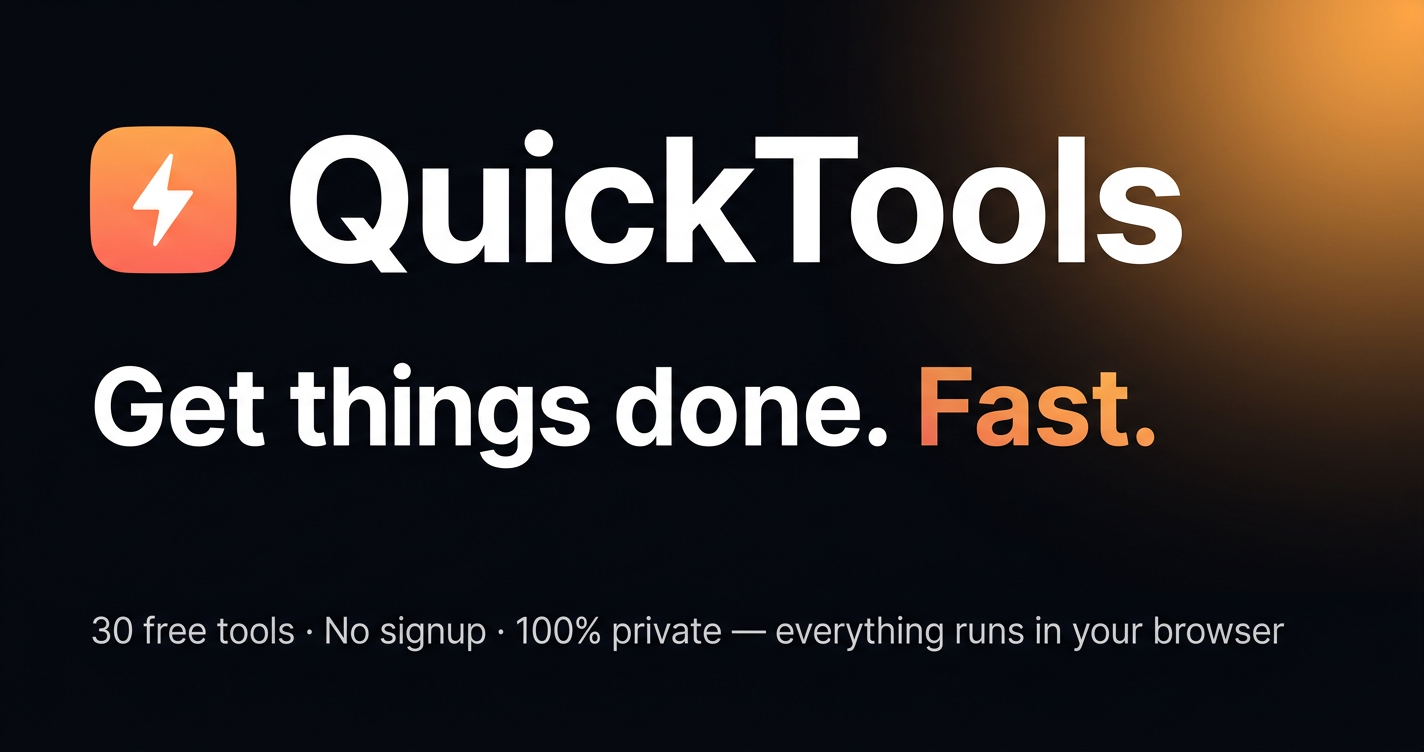
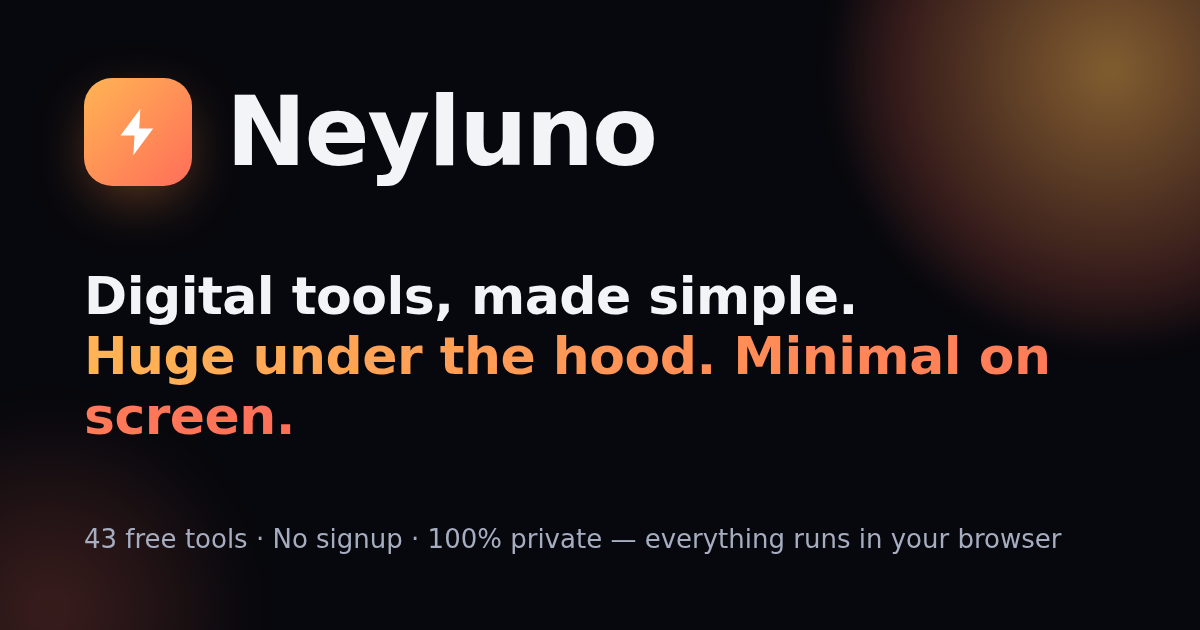
REBRANDING — QuickTools becomes Neyluno (global)
- Brand: Neyluno everywhere (header, footer, SEO, OG, JSON-LD, manifest, PWA, guides, legal, tools, tests, docs, motion scenes).
- Tagline: 'Digital tools, made simple.' + new OG cover 1200x630.
- Contact email: Noah.mailpro@yahoo.com (site.js, legal, docs).
- Canonical domain: https://neyluno.onrender.com (new Render static service).
- Workflow exports: app id 'neyluno'; legacy pre-rebrand imports still accepted (encoded marker, zero literal).
- Download filenames neyluno-*; package/repo renamed; GitHub repo renamed Neyluno.
- Gates: 139 unit + 61 e2e green; final grep quicktools/natwixpaye-email = 0.

diff --git a/motion/scenes/promo.html b/motion/scenes/promo.html
@@ -3,9 +3,9 @@
 <head>
 <meta charset="utf-8" />
 <meta name="viewport" content="width=device-width, initial-scale=1" />
-<title>QuickTools — Promo Scene</title>
+<title>Neyluno — Promo Scene</title>
 <style>
-  /* ---------- Brand tokens (from QuickTools design system) ---------- */
+  /* ---------- Brand tokens (from Neyluno design system) ---------- */
   :root {
     --bg: #07080d;
     --panel: rgba(255,255,255,.035);
@@ -178,7 +178,7 @@
   <div class="scene" id="sceneB">
     <div id="converge"></div>
     <div class="card hub" id="hub">
-      <div class="title"><span class="mark"></span><span>QuickTools</span></div>
+      <div class="title"><span class="mark"></span><span>Neyluno</span></div>
       <div class="steps" id="steps">
         <div class="step" id="st1"><div class="dot">↑</div><span data-i18n="sUpload"></span></div>
         <div class="link" id="lk1"></div>
@@ -220,12 +220,12 @@
   <div class="scene" id="sceneE">
     <div class="logo-row" id="logoRow">
       <span class="logo-mark" id="logoMark"></span>
-      <span class="logo-word">QuickTools</span>
+      <span class="logo-word">Neyluno</span>
     </div>
     <div class="tag-43" data-i18n="tag43"></div>
     <div class="slogan" id="slogan"></div>
     <div class="cta" id="cta" data-i18n="cta"></div>
-    <div class="url">quicktools · 100% local · free</div>
+    <div class="url">neyluno · 100% local · free</div>
   </div>
 
   <div id="vignette"></div>
@@ -246,12 +246,12 @@ const TEXT = {
     flowQuery: 'I want to extract the text from this PDF',
     flowUnderstood: 'Flow understood →',
     flowTool: 'PDF → Text',
-    capC: '<strong>You don’t need to know which tool you need.</strong><br>Just tell QuickTools what you want to do.',
+    capC: '<strong>You don’t need to know which tool you need.</strong><br>Just tell Neyluno what you want to do.',
     toolsLabel: 'tools',
     capD: '<strong>Everything you need.</strong> One place.',
     tag43: '43 tools. One simple place.',
     slogan: 'Huge under the hood.<br><span class="gold">Minimal on screen.</span>',
-    cta: 'Try QuickTools',
+    cta: 'Try Neyluno',
     chips: ['PDF', 'IMAGE', 'TEXT', 'CALC', 'CONVERT', 'UTILITIES', 'STUDENT'],
   },
   fr: {
@@ -266,7 +266,7 @@ const TEXT = {
     capD: '<strong>Tout ce qu’il vous faut.</strong> Au même endroit.',
     tag43: '43 outils. Une seule interface.',
     slogan: 'Énorme en profondeur.<br><span class="gold">Minimal à l’écran.</span>',
-    cta: 'Essayer QuickTools',
+    cta: 'Essayer Neyluno',
     chips: ['PDF', 'IMAGE', 'TEXTE', 'CALCUL', 'CONVERSION', 'UTILITAIRES', 'ÉTUDIANT'],
   },
 }[LANG];

diff --git a/src/lib/workflow.js b/src/lib/workflow.js
@@ -141,7 +141,7 @@ export const WORKFLOW_EXPORT_VERSION = 1;
 export function exportWorkflowsJSON(workflows) {
   return JSON.stringify(
     {
-      app: 'quicktools',
+      app: 'neyluno',
       kind: 'workflows',
       version: WORKFLOW_EXPORT_VERSION,
       exportedAt: new Date().toISOString(),
@@ -164,10 +164,19 @@ export function parseWorkflowsJSON(text) {
   try {
     data = JSON.parse(text);
   } catch {
-    return { ok: false, error: 'This is not valid JSON. Action: export again from QuickTools, or fix the file.' };
+    return { ok: false, error: 'This is not valid JSON. Action: export again from Neyluno, or fix the file.' };
   }
-  if (!data || typeof data !== 'object' || data.app !== 'quicktools' || data.kind !== 'workflows') {
-    return { ok: false, error: 'This JSON was not exported by QuickTools. Action: use a file exported from the Workflows page.' };
+  // Legacy migration: files exported before the rebrand carry the previous
+  // app identifier. It is stored encoded so the old brand string never
+  // appears anywhere in the codebase, yet old exports keep importing.
+  const LEGACY_APP = typeof atob === 'function' ? atob('cXVpY2t0b29scw==') : null;
+  if (
+    !data ||
+    typeof data !== 'object' ||
+    (data.app !== 'neyluno' && data.app !== LEGACY_APP) ||
+    data.kind !== 'workflows'
+  ) {
+    return { ok: false, error: 'This JSON was not exported by Neyluno. Action: use a file exported from the Workflows page.' };
   }
   if (!Array.isArray(data.workflows) || data.workflows.length === 0) {
     return { ok: false, error: 'The file contains no workflows. Action: export at least one saved workflow.' };
@@ -175,12 +184,12 @@ export function parseWorkflowsJSON(text) {
   const out = [];
   for (const wf of data.workflows) {
     if (!wf || typeof wf.name !== 'string' || !wf.name.trim() || !Array.isArray(wf.steps) || wf.steps.length === 0) {
-      return { ok: false, error: 'A workflow in this file is missing a name or its steps. Action: re-export from QuickTools.' };
+      return { ok: false, error: 'A workflow in this file is missing a name or its steps. Action: re-export from Neyluno.' };
     }
     const steps = [];
     for (const s of wf.steps) {
       if (!s || !STEP_TYPES[s.type]) {
-        return { ok: false, error: `Unknown step type “${s?.type ?? ''}”. Action: this file may come from a newer QuickTools version.` };
+        return { ok: false, error: `Unknown step type “${s?.type ?? ''}”. Action: this file may come from a newer Neyluno version.` };
       }
       const step = { type: s.type };
       if (s.type === 'resize') {

diff --git a/src/data/tools.js b/src/data/tools.js
@@ -1,5 +1,5 @@
 /**
- * TOOLS REGISTRY — QuickTools V2
+ * TOOLS REGISTRY — Neyluno V2
  * Add a tool: entry here + UI component in src/tools/ui/ + register in src/pages/tools/[slug].astro.
  * Navigation, search, categories, sitemap and internal links follow automatically.
  * `intents` are task phrases matched by the intent-based search engine.
@@ -629,7 +629,7 @@ export const tools = [
     group: 'Images',
     shortDesc: 'Instant facts about any image: dimensions, format, weight, transparency — plus what to do next.',
     description:
-      'Drop an image and get the full picture: exact dimensions, megapixels, aspect ratio, file weight, format and whether it uses transparency. The analyzer then suggests the right QuickTools action (compress, convert, resize).',
+      'Drop an image and get the full picture: exact dimensions, megapixels, aspect ratio, file weight, format and whether it uses transparency. The analyzer then suggests the right Neyluno action (compress, convert, resize).',
     keywords: ['analyze', 'image', 'metadata', 'dimensions', 'size', 'check', 'properties', 'inspect'],
     intents: [
       'analyze image', 'image info', 'image properties', 'check image size', 'image dimensions', 'is image transparent',
@@ -641,7 +641,7 @@ export const tools = [
       { q: 'What are megapixels for?', a: 'Megapixels (width × height ÷ 1,000,000) indicate the true detail level of a photo — more useful than file size for judging quality.' },
       { q: 'Which formats can I analyze?', a: 'Any format your browser can open: JPG, PNG, WebP, GIF, BMP, AVIF and more.' },
     ],
-    seo: `<p>Before optimizing or uploading an image, know exactly what you have. This <strong>image analyzer</strong> reports <strong>dimensions, megapixels, aspect ratio, file weight and format</strong>, and detects transparency by sampling pixels.</p><p>It then points you to the right next step — compress a heavy file, convert a format, or resize oversized dimensions — all without leaving QuickTools.</p>`,
+    seo: `<p>Before optimizing or uploading an image, know exactly what you have. This <strong>image analyzer</strong> reports <strong>dimensions, megapixels, aspect ratio, file weight and format</strong>, and detects transparency by sampling pixels.</p><p>It then points you to the right next step — compress a heavy file, convert a format, or resize oversized dimensions — all without leaving Neyluno.</p>`,
   },
   {
     slug: 'text-cleaner',

diff --git a/motion/brand/og.html b/motion/brand/og.html
@@ -1,0 +1,55 @@
+<!doctype html>
+<html>
+<head>
+<meta charset="utf-8" />
+<style>
+  * { margin: 0; box-sizing: border-box; }
+  html, body { width: 1200px; height: 630px; overflow: hidden; }
+  body {
+    background: #07080d;
+    font-family: 'Space Grotesk', 'Inter', system-ui, sans-serif;
+    color: #f2f4f8;
+    position: relative;
+  }
+  .glow {
+    position: absolute; width: 560px; height: 560px; border-radius: 50%;
+    right: -190px; top: -210px;
+    background: radial-gradient(circle, rgba(255,180,84,.5), rgba(255,110,89,.18) 55%, transparent 72%);
+    filter: blur(10px);
+  }
+  .glow2 {
+    position: absolute; width: 420px; height: 420px; border-radius: 50%;
+    left: -160px; bottom: -190px;
+    background: radial-gradient(circle, rgba(255,110,89,.22), transparent 70%);
+    filter: blur(20px);
+  }
+  .wrap { position: absolute; inset: 0; padding: 76px 84px; display: flex; flex-direction: column; justify-content: space-between; }
+  .brand { display: flex; align-items: center; gap: 34px; }
+  .mark {
+    width: 108px; height: 108px; border-radius: 28px;
+    background: linear-gradient(135deg, #ffb454, #ff6e59);
+    display: grid; place-items: center;
+    box-shadow: 0 18px 60px -12px rgba(255,140,70,.45);
+  }
+  .mark svg { width: 56px; height: 56px; }
+  .word { font-size: 96px; font-weight: 800; letter-spacing: -0.02em; }
+  .tag { font-size: 52px; font-weight: 700; letter-spacing: -0.01em; line-height: 1.16; }
+  .tag .gold { background: linear-gradient(100deg, #ffb454, #ff6e59); -webkit-background-clip: text; background-clip: text; -webkit-text-fill-color: transparent; }
+  .foot { font-size: 26px; color: #a6adc0; font-weight: 500; }
+</style>
+</head>
+<body>
+  <div class="glow"></div>
+  <div class="glow2"></div>
+  <div class="wrap">
+    <div class="brand">
+      <span class="mark">
+        <svg viewBox="0 0 24 24" fill="none"><path d="M13 2 4.5 13.5h6L10 22l8.5-11.5h-6L13 2z" fill="#fff"/></svg>
+      </span>
+      <span class="word">Neyluno</span>
+    </div>
+    <div class="tag">Digital tools, made simple.<br /><span class="gold">Huge under the hood. Minimal on screen.</span></div>
+    <div class="foot">43 free tools · No signup · 100% private — everything runs in your browser</div>
+  </div>
+</body>
+</html>

diff --git a/src/data/guides.js b/src/data/guides.js
@@ -279,7 +279,7 @@ export const guides = [
     faq: [
       { q: 'Why can I not select the text in my PDF?', a: 'The document is probably a scan: every “page” is a photograph of the original. There is no hidden text layer to read — only pixels. Tools that extract text will correctly tell you so.' },
       { q: 'Does extracting text keep the formatting?', a: 'Text layers store characters and positions, not paragraphs. You get clean words and line breaks; lists, tables and columns may need light re-tidying after extraction.' },
-      { q: 'Is OCR the solution for scans?', a: 'OCR turns pixels into text. Quality depends heavily on scan resolution and language; for anything important, compare the output against the original. QuickTools does not ship OCR in V4 — this is a deliberate V5 scope decision.' },
+      { q: 'Is OCR the solution for scans?', a: 'OCR turns pixels into text. Quality depends heavily on scan resolution and language; for anything important, compare the output against the original. Neyluno does not ship OCR in V4 — this is a deliberate V5 scope decision.' },
       { q: 'Is my document uploaded anywhere?', a: 'No. Extraction runs locally in your browser; the file never leaves your device.' },
     ],
     html: `
@@ -298,7 +298,7 @@ export const guides = [
 <ul>
   <li><strong>Re-export the original</strong> if you have it — always better than extracting from a scan.</li>
   <li><strong>Use the PDF → Images tool</strong> to get clean page pictures, then retype the few lines you actually need.</li>
-  <li><strong>OCR</strong> (optical character recognition) converts pixels to text but is a separate, heavier process; QuickTools leaves it for V5 and prefers telling you “no text found” over guessing characters.</li>
+  <li><strong>OCR</strong> (optical character recognition) converts pixels to text but is a separate, heavier process; Neyluno leaves it for V5 and prefers telling you “no text found” over guessing characters.</li>
 </ul>
 
 <h2>Quick checklist</h2>

diff --git a/tests/workflow-v4.test.js b/tests/workflow-v4.test.js
@@ -51,14 +51,24 @@ test('import: wrong app/kind rejected', () => {
   assert.equal(parseWorkflowsJSON(JSON.stringify({ app: 'other', kind: 'workflows', workflows: [] })).ok, false);
 });
 
+test('import: pre-rebrand export (legacy app id) still accepted', () => {
+  const legacy = {
+    app: atob('cXVpY2t0b29scw=='),
+    kind: 'workflows',
+    version: 1,
+    workflows: [{ name: 'old export', steps: [{ type: 'resize', maxSide: 1920 }] }],
+  };
+  assert.equal(parseWorkflowsJSON(JSON.stringify(legacy)).ok, true);
+});
+
 test('import: missing steps / empty name rejected', () => {
-  const bad = { app: 'quicktools', kind: 'workflows', version: 1, workflows: [{ name: 'x', steps: [] }] };
+  const bad = { app: 'neyluno', kind: 'workflows', version: 1, workflows: [{ name: 'x', steps: [] }] };
   assert.equal(parseWorkflowsJSON(JSON.stringify(bad)).ok, false);
 });
 
 test('import: unknown step type rejected', () => {
   const bad = {
-    app: 'quicktools',
+    app: 'neyluno',
     kind: 'workflows',
     version: 1,
     workflows: [{ name: 'x', steps: [{ type: 'explode' }] }],
@@ -68,7 +78,7 @@ test('import: unknown step type rejected', () => {
 
 test('import: out-of-range numeric rejected', () => {
   const bad = {
-    app: 'quicktools',
+    app: 'neyluno',
     kind: 'workflows',
     version: 1,
     workflows: [{ name: 'x', steps: [{ type: 'resize', maxSide: 999999 }] }],

diff --git a/src/data/site.js b/src/data/site.js
@@ -1,15 +1,15 @@
 /**
- * CENTRAL SITE CONFIGURATION — QuickTools V2 (global, English-first)
+ * CENTRAL SITE CONFIGURATION — Neyluno V2 (global, English-first)
  * Name, tagline and global settings are changed here only.
  */
 export const site = {
-  name: 'QuickTools',
+  name: 'Neyluno',
   tagline: 'The fastest place to get small digital tasks done.',
   shortDescription:
     'Free online tools for images, PDFs, text and files. No sign-up, no uploads — everything runs privately in your browser.',
   locale: 'en',
   // Public contact address (used by Privacy, Settings feedback — no form backend by design).
-  contactEmail: 'natwixpaye@gmail.com',
+  contactEmail: 'Noah.mailpro@yahoo.com',
   // Default theme when the visitor has no stored preference and no OS preference:
   defaultTheme: 'dark',
 

diff --git a/src/lib/fileui.js b/src/lib/fileui.js
@@ -413,7 +413,7 @@ export function mountFileTool(root, config = {}) {
         entries[name] = new Uint8Array(await item.result.blob.arrayBuffer());
       }
       const zipped = zipSync(entries);
-      downloadBlob(new Blob([zipped], { type: 'application/zip' }), 'quicktools-export.zip');
+      downloadBlob(new Blob([zipped], { type: 'application/zip' }), 'neyluno-export.zip');
       toast(`${done.length} ${t('file.zipDone')}`, 'success');
     } catch {
       toast(t('file.zipFail'), 'error');

diff --git a/src/lib/flow.js b/src/lib/flow.js
@@ -1,5 +1,5 @@
 /**
- * QuickTools Flow — rule-based intent → plan engine (no AI, no server).
+ * Neyluno Flow — rule-based intent → plan engine (no AI, no server).
  * Understands short natural sentences in English and French, detects file types,
  * problems and quantities, and proposes either a tool or a workflow plan.
  * Pure functions, fully testable. Architecture ready for a future AI layer.

diff --git a/src/styles/global.css b/src/styles/global.css
@@ -1,5 +1,5 @@
 /* ============================================================
-   QUICKTOOLS — DESIGN SYSTEM GLOBAL
+   NEYLUNO — DESIGN SYSTEM GLOBAL
    Thème sombre premium par défaut, thème clair disponible.
    ============================================================ */
 

diff --git a/public/sw.js b/public/sw.js
@@ -1,4 +1,4 @@
-/* QuickTools service worker — app-shell caching only.
+/* Neyluno service worker — app-shell caching only.
  * Rules:
  *  - GET + same-origin only.
  *  - /_astro/* hashed assets: cache-first (immutable).

diff --git a/motion/audio/make_audio.py b/motion/audio/make_audio.py
@@ -1,5 +1,5 @@
 #!/usr/bin/env python3
-"""QuickTools promo — generative music bed + UI sound design (numpy).
+"""Neyluno promo — generative music bed + UI sound design (numpy).
 Layers kept separate: voice (generated elsewhere) / music / sfx.
 Usage: python3 make_audio.py <en|fr>   (reads timeline-<lang>.json)
 Outputs: music-<lang>.wav, sfx-<lang>.wav, mix-<lang>.wav (voice+music+sfx)
